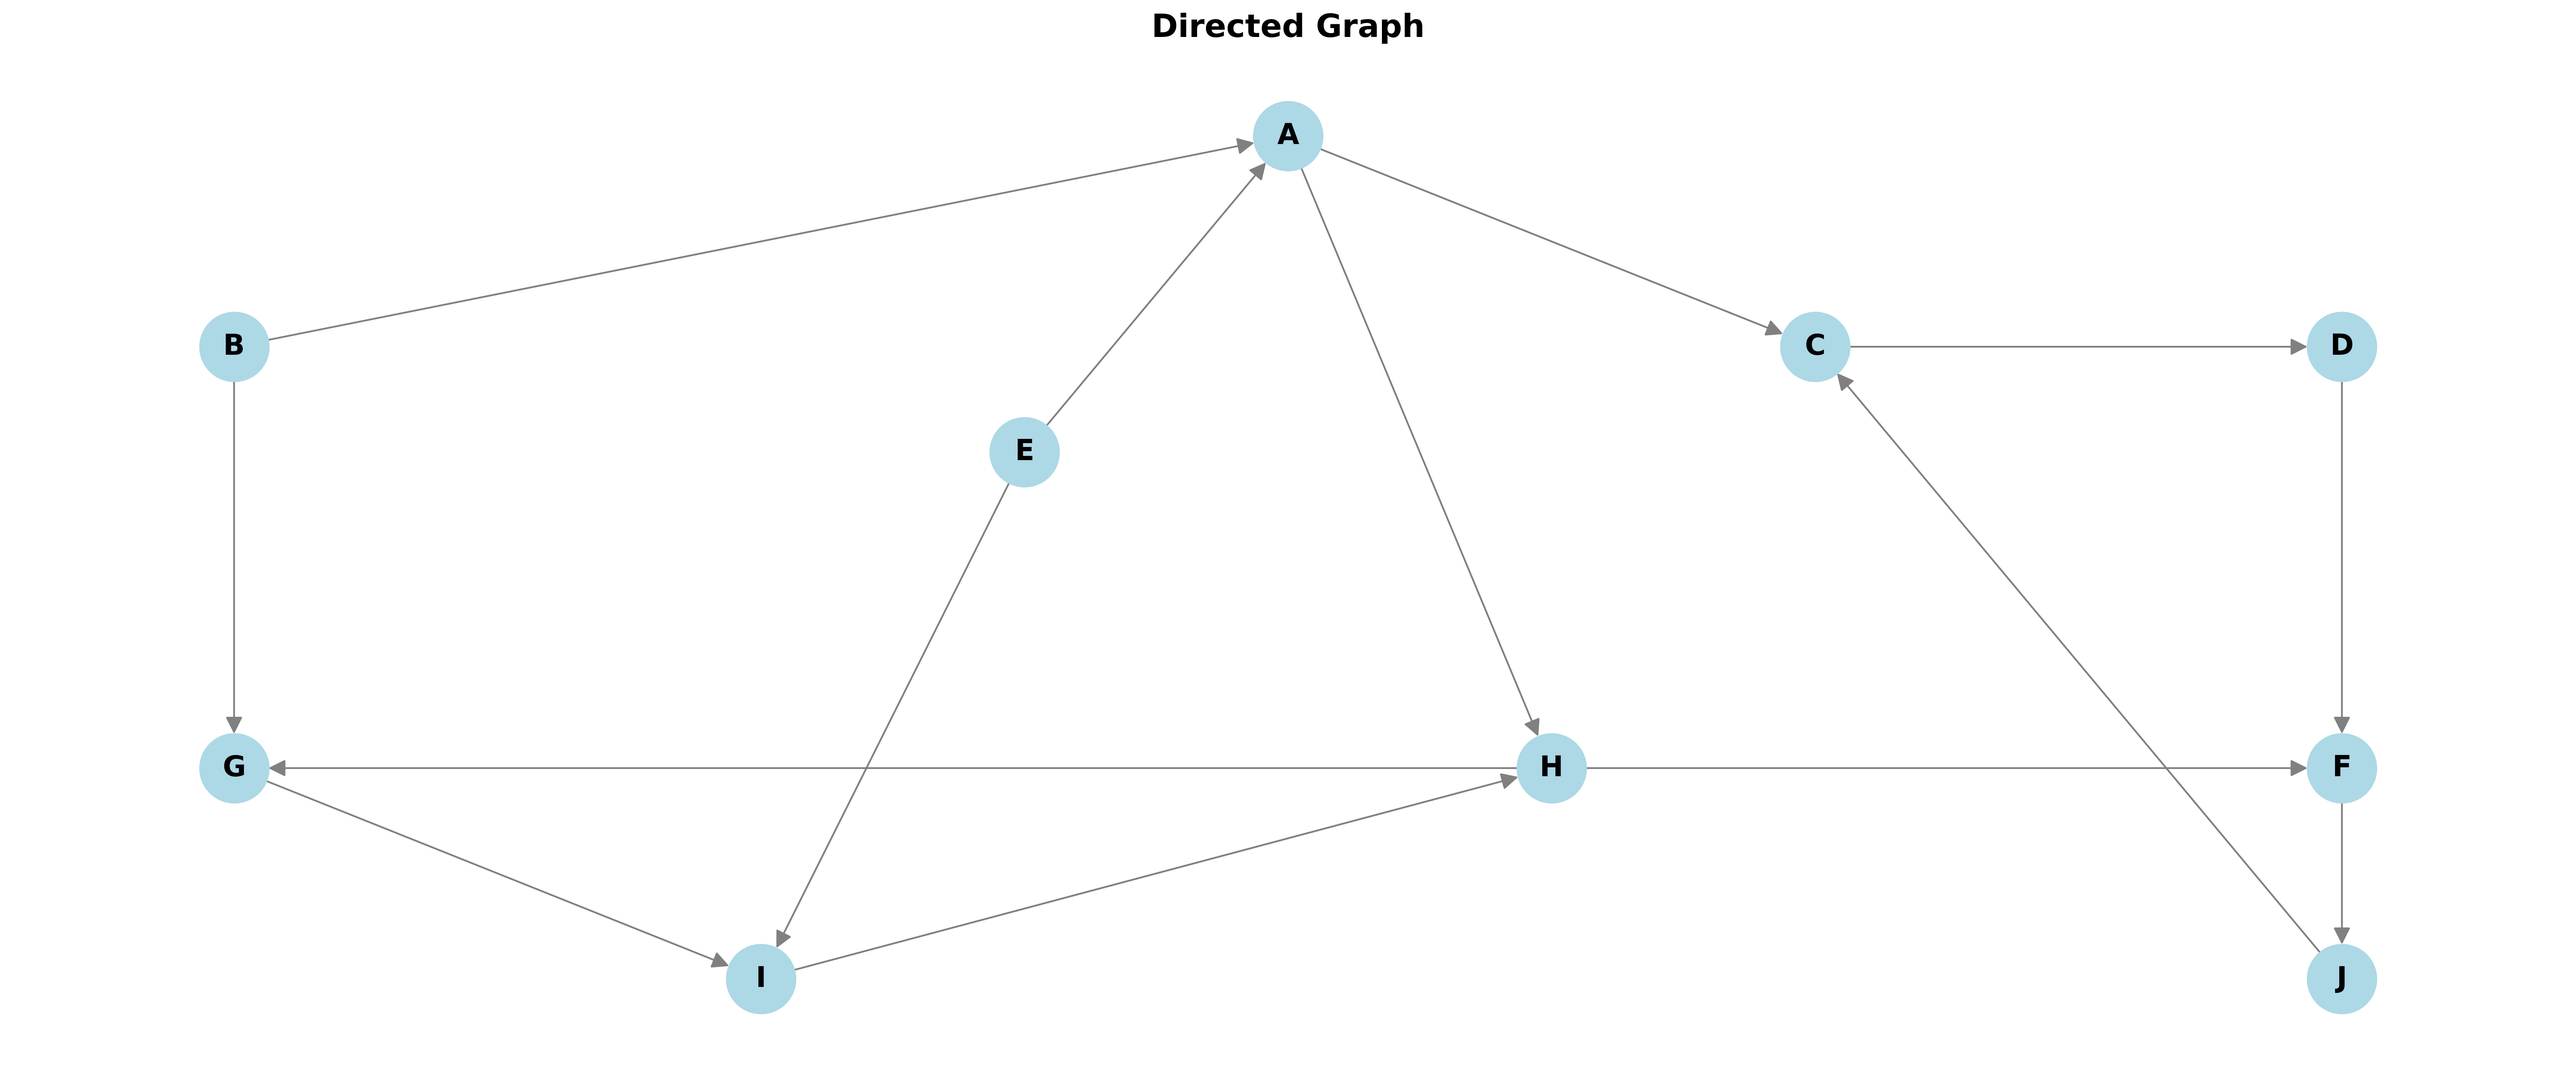
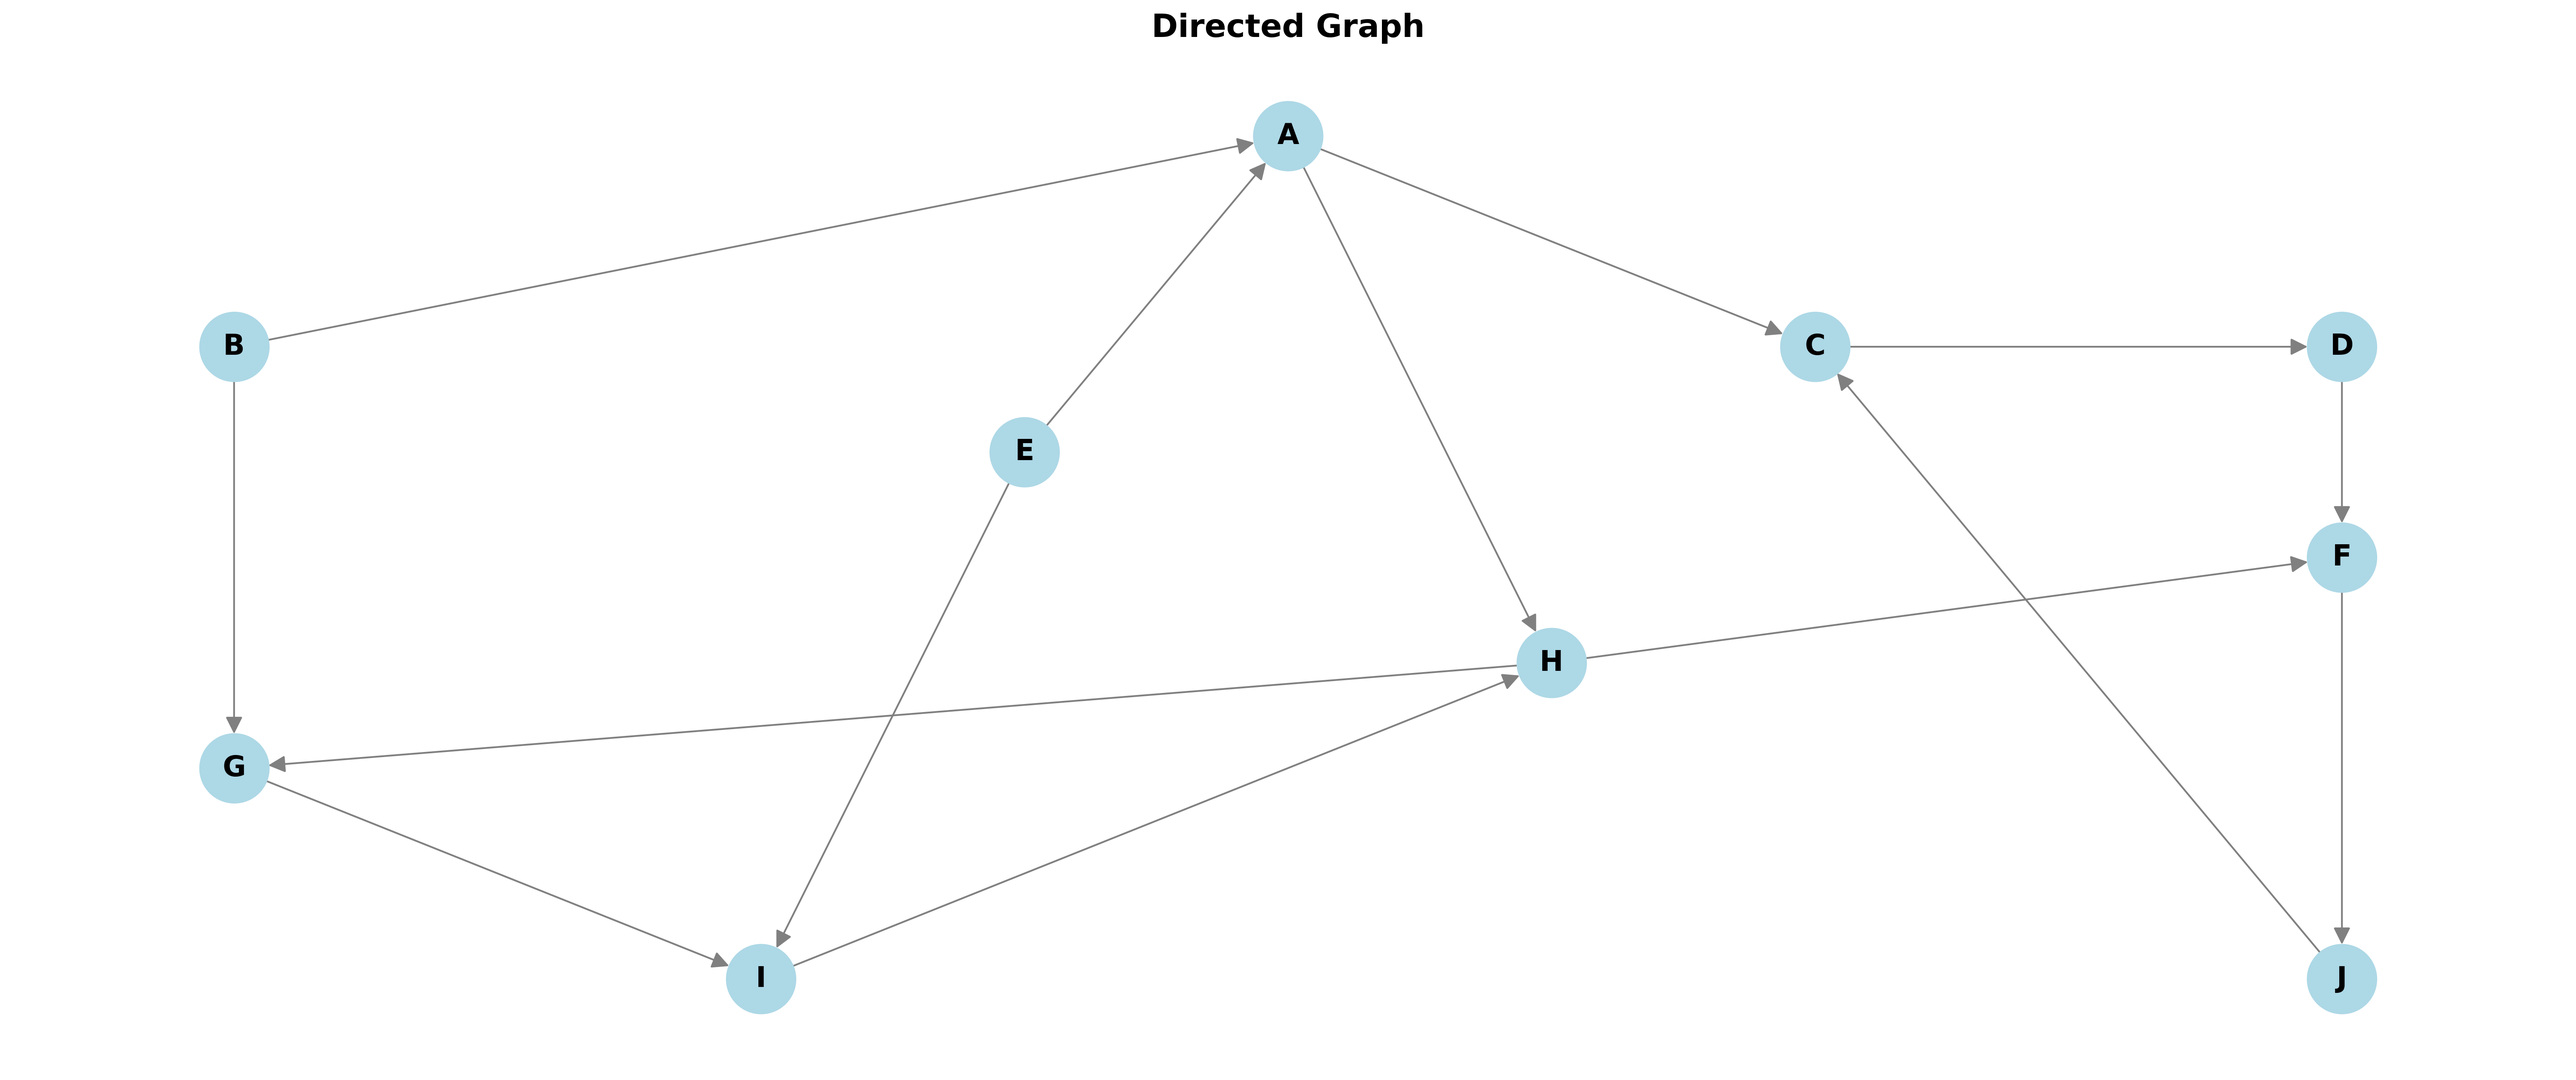
fix: graph3 details fix3

diff --git a/main.py b/main.py
@@ -29,7 +29,7 @@ def print_topological_ordering():
 
 def print_SCC_order_sinks_sources_graph2():
     print("\nSCC ORDER, SINK AND SOURCE SCCS, AND MINIMUM EDGES TO MAKE GRAPH STRONGLY CONNECTED")
-    print("Order: A; B; C,D,F,J; E; G,H,I")
+    print("Order: G,H,I; C,D,F,J; A; E; B")
     print("Sources: B; E")
     print("Sinks: C,D,F,J; G,H,I")
     print("Minimum edges: 2")
@@ -41,10 +41,12 @@ def print_SCC_connections_graph2():
     print("A -> C,D,F,J")
     print("A -> G,H,I")
     print("E -> G,H,I")
+    print("B -> G,H,I")
+    print("G,H,I -> C,D,F,J")
 
 def print_SCC_order_sinks_sources_graph3():
     print("\nSCC ORDER, SINK AND SOURCE SCCS, AND MINIMUM EDGES TO MAKE GRAPH STRONGLY CONNECTED")
-    print("Order: A,B,E; C; D,F,G,H,I")
+    print("Order: D,F,G,H,I; C; A,B,E")
     print("Sources: A,B,E")
     print("Sinks: D,F,G,H,I")
     print("Minimum edges: 1")

diff --git a/graph2.py b/graph2.py
@@ -28,9 +28,9 @@ pos = {
     'C': (6, 6), 
     'D': (8, 6),
     'E': (3, 5),
-    'F': (8, 2),
+    'F': (8, 4),
     'G': (0, 2),
-    'H': (5, 2),
+    'H': (5, 3),
     'I': (2, 0),
     'J': (8, 0)
 }
